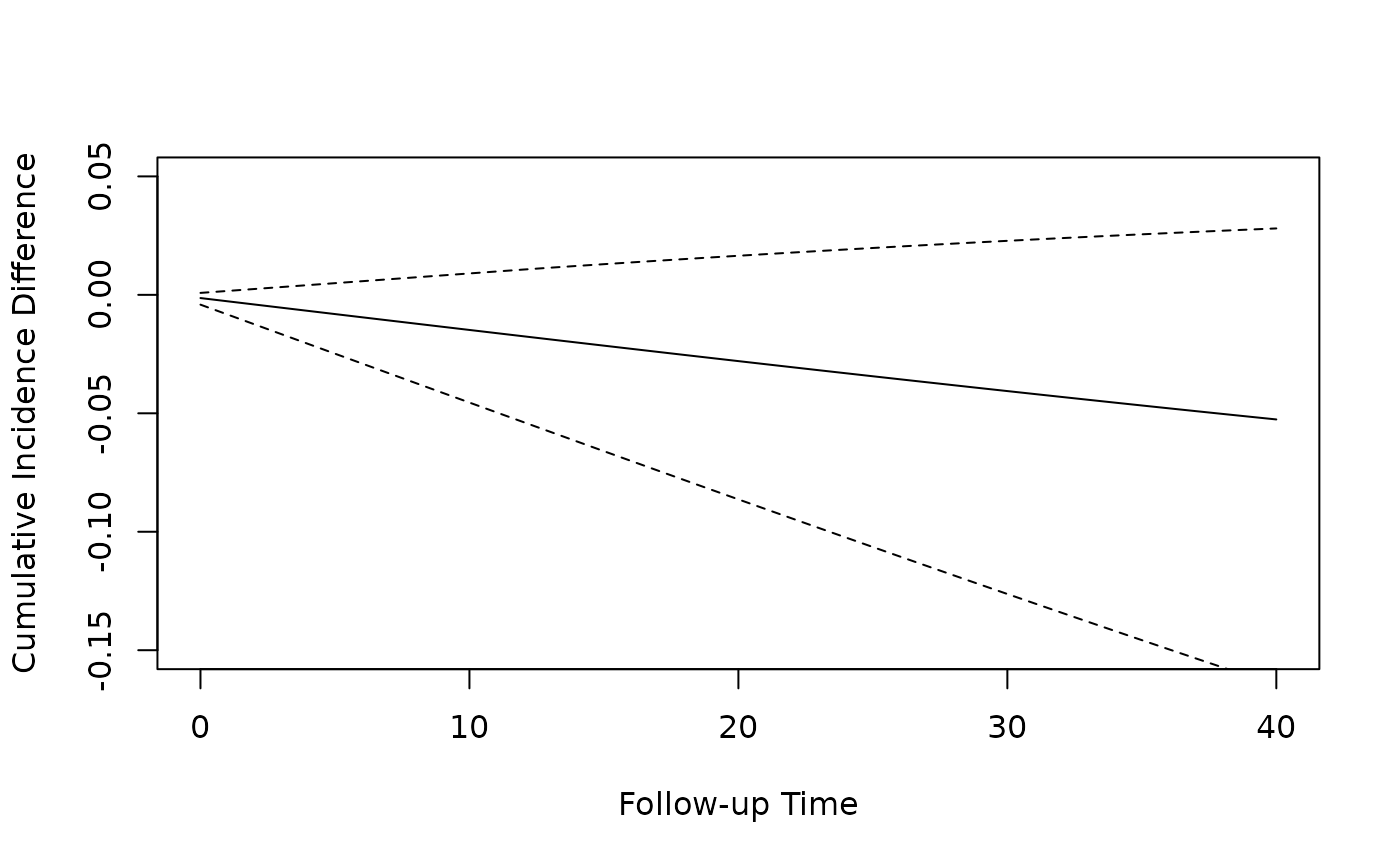
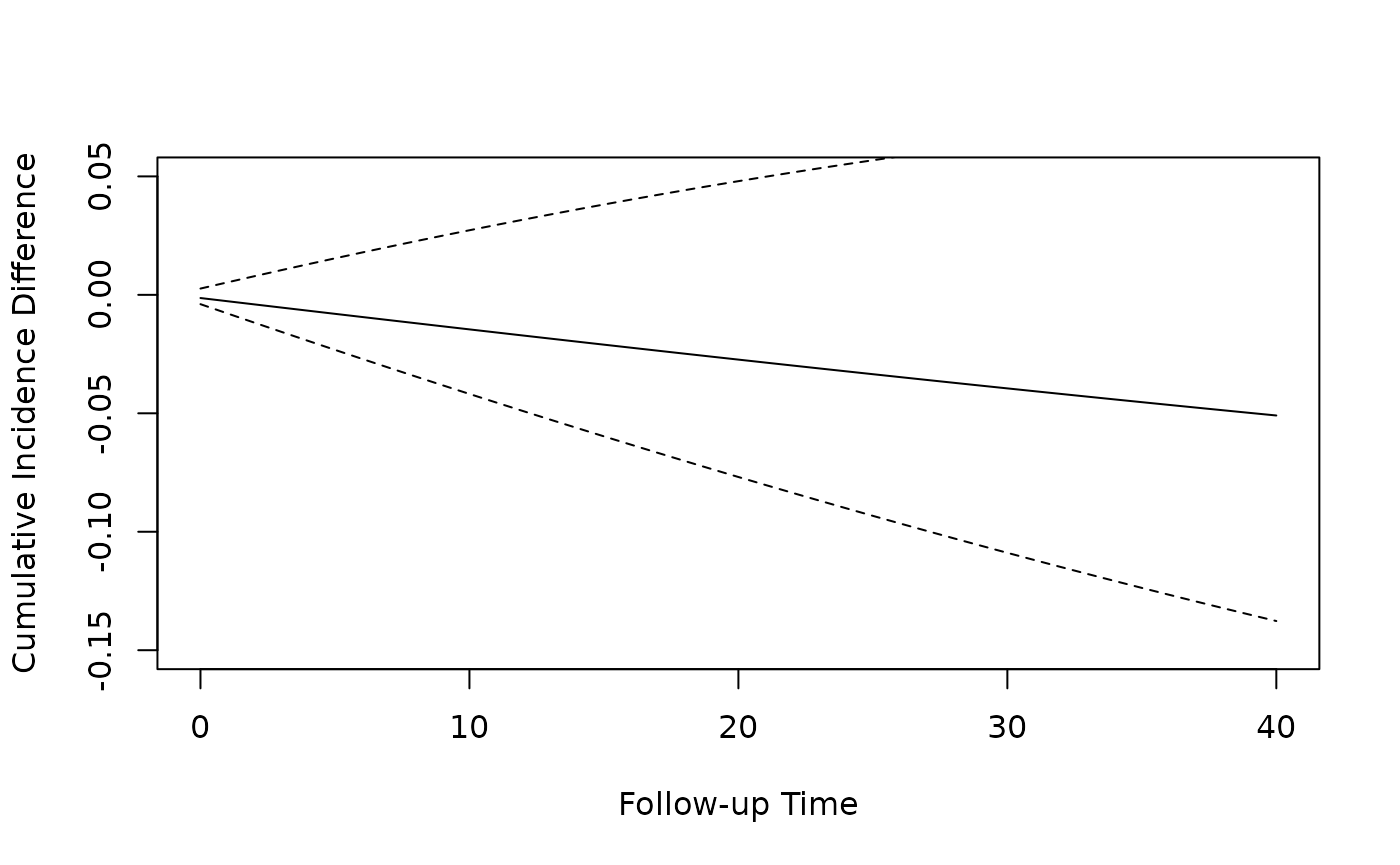
Deploying to gh-pages from @ Causal-LDA/TrialEmulation@38c63deaa6f6d2ba563328634d0d27fa89c20e72 🚀

diff --git a/articles/Getting-Started.html b/articles/Getting-Started.html
@@ -162,11 +162,11 @@ analysis:</p>
 <span><span class="op">)</span></span>
 <span><span class="co">#&gt; Starting data manipulation</span></span>
 <span><span class="co">#&gt; Finished data manipulation</span></span>
-<span><span class="co">#&gt; Processing time of data manipulation: 0.7 s</span></span>
+<span><span class="co">#&gt; Processing time of data manipulation: 1.0 s</span></span>
 <span><span class="co">#&gt; ------------------------------------------------------------</span></span>
 <span><span class="co">#&gt; Starting data extension</span></span>
 <span><span class="co">#&gt; Finish data extension</span></span>
-<span><span class="co">#&gt; Processing time of data extension: 4.7 s</span></span>
+<span><span class="co">#&gt; Processing time of data extension: 5.8 s</span></span>
 <span><span class="co">#&gt; ------------------------------------------------------------</span></span>
 <span><span class="co">#&gt; Summary of extended data:</span></span>
 <span><span class="co">#&gt; Number of observations: 1939053</span></span>
@@ -404,13 +404,13 @@ data.</p>
 <span><span class="co">#&gt; Expanded Trial Emulation data</span></span>
 <span><span class="co">#&gt; </span></span>
 <span><span class="co">#&gt; Expanded data saved in 396 csv files:</span></span>
-<span><span class="co">#&gt;   1:   /tmp/RtmpuuJrXG/trial_emu/trial_1.csv</span></span>
-<span><span class="co">#&gt;   2:   /tmp/RtmpuuJrXG/trial_emu/trial_2.csv</span></span>
-<span><span class="co">#&gt;   3:   /tmp/RtmpuuJrXG/trial_emu/trial_3.csv</span></span>
+<span><span class="co">#&gt;   1:   /tmp/RtmpAdKMDX/trial_emu/trial_1.csv</span></span>
+<span><span class="co">#&gt;   2:   /tmp/RtmpAdKMDX/trial_emu/trial_2.csv</span></span>
+<span><span class="co">#&gt;   3:   /tmp/RtmpAdKMDX/trial_emu/trial_3.csv</span></span>
 <span><span class="co">#&gt;  ---                                        </span></span>
-<span><span class="co">#&gt; 394: /tmp/RtmpuuJrXG/trial_emu/trial_394.csv</span></span>
-<span><span class="co">#&gt; 395: /tmp/RtmpuuJrXG/trial_emu/trial_395.csv</span></span>
-<span><span class="co">#&gt; 396: /tmp/RtmpuuJrXG/trial_emu/trial_396.csv</span></span>
+<span><span class="co">#&gt; 394: /tmp/RtmpAdKMDX/trial_emu/trial_394.csv</span></span>
+<span><span class="co">#&gt; 395: /tmp/RtmpAdKMDX/trial_emu/trial_395.csv</span></span>
+<span><span class="co">#&gt; 396: /tmp/RtmpAdKMDX/trial_emu/trial_396.csv</span></span>
 <span><span class="co">#&gt; </span></span>
 <span><span class="co">#&gt; </span></span>
 <span><span class="co">#&gt; Number of observations in expanded data: 963883 </span></span>
@@ -470,7 +470,7 @@ individually</p>
 <span><span class="co">#&gt;  null.deviance df.null logLik  AIC  BIC deviance df.residual  nobs</span></span>
 <span><span class="co">#&gt;           4330   21263  -2165 4335 4359     4329       21261 21264</span></span>
 <span><span class="co">#&gt; </span></span>
-<span><span class="co">#&gt; Object saved at "/tmp/RtmpuuJrXG/trial_emu/weight_model_switch_n0.rds"</span></span></code></pre></div>
+<span><span class="co">#&gt; Object saved at "/tmp/RtmpAdKMDX/trial_emu/weight_model_switch_n0.rds"</span></span></code></pre></div>
 <p>If <code>save_weight_models = TRUE,</code> the full model objects are
 saved in <code>working_dir</code>, so you can inspect the data used in
 those models and further investigate how well those models fit.</p>
@@ -507,12 +507,12 @@ those models and further investigate how well those models fit.</p>
 <p>We also see the expanded trial files:</p>
 <div class="sourceCode" id="cb12"><pre class="downlit sourceCode r">
 <code class="sourceCode R"><span><span class="fu"><a href="https://rdrr.io/r/utils/head.html" class="external-link">head</a></span><span class="op">(</span><span class="va">prep_data</span><span class="op">$</span><span class="va">data</span><span class="op">)</span></span>
-<span><span class="co">#&gt; [1] "/tmp/RtmpuuJrXG/trial_emu/trial_1.csv"</span></span>
-<span><span class="co">#&gt; [2] "/tmp/RtmpuuJrXG/trial_emu/trial_2.csv"</span></span>
-<span><span class="co">#&gt; [3] "/tmp/RtmpuuJrXG/trial_emu/trial_3.csv"</span></span>
-<span><span class="co">#&gt; [4] "/tmp/RtmpuuJrXG/trial_emu/trial_4.csv"</span></span>
-<span><span class="co">#&gt; [5] "/tmp/RtmpuuJrXG/trial_emu/trial_5.csv"</span></span>
-<span><span class="co">#&gt; [6] "/tmp/RtmpuuJrXG/trial_emu/trial_6.csv"</span></span></code></pre></div>
+<span><span class="co">#&gt; [1] "/tmp/RtmpAdKMDX/trial_emu/trial_1.csv"</span></span>
+<span><span class="co">#&gt; [2] "/tmp/RtmpAdKMDX/trial_emu/trial_2.csv"</span></span>
+<span><span class="co">#&gt; [3] "/tmp/RtmpAdKMDX/trial_emu/trial_3.csv"</span></span>
+<span><span class="co">#&gt; [4] "/tmp/RtmpAdKMDX/trial_emu/trial_4.csv"</span></span>
+<span><span class="co">#&gt; [5] "/tmp/RtmpAdKMDX/trial_emu/trial_5.csv"</span></span>
+<span><span class="co">#&gt; [6] "/tmp/RtmpAdKMDX/trial_emu/trial_6.csv"</span></span></code></pre></div>
 <p>Each of these csv files contains the data for the trial starting at
 period <code>_i</code>. To create a manageable dataset for the final
 analysis we can sample from these trials.</p>
@@ -521,18 +521,18 @@ time in each trial. All observations with events are included.</p>
 <div class="sourceCode" id="cb13"><pre class="downlit sourceCode r">
 <code class="sourceCode R"><span><span class="va">sampled_data</span> <span class="op">&lt;-</span> <span class="fu"><a href="../reference/case_control_sampling_trials.html">case_control_sampling_trials</a></span><span class="op">(</span><span class="va">prep_data</span>, p_control <span class="op">=</span> <span class="fl">0.1</span><span class="op">)</span></span>
 <span><span class="fu"><a href="https://rdrr.io/r/utils/str.html" class="external-link">str</a></span><span class="op">(</span><span class="va">sampled_data</span><span class="op">)</span></span>
-<span><span class="co">#&gt; Classes 'data.table' and 'data.frame':   100214 obs. of  13 variables:</span></span>
-<span><span class="co">#&gt;  $ id                : int  165 176 165 176 423 476 176 54 358 31 ...</span></span>
+<span><span class="co">#&gt; Classes 'data.table' and 'data.frame':   99903 obs. of  13 variables:</span></span>
+<span><span class="co">#&gt;  $ id                : int  476 176 358 423 358 31 165 475 165 484 ...</span></span>
 <span><span class="co">#&gt;  $ trial_period      : int  1 1 1 1 1 1 1 1 1 1 ...</span></span>
-<span><span class="co">#&gt;  $ followup_time     : int  0 1 2 3 3 4 4 5 7 9 ...</span></span>
+<span><span class="co">#&gt;  $ followup_time     : int  0 0 0 3 4 6 7 7 9 10 ...</span></span>
 <span><span class="co">#&gt;  $ outcome           : num  0 0 0 0 0 0 0 0 0 0 ...</span></span>
-<span><span class="co">#&gt;  $ weight            : num  1 1 0.999 0.999 0.999 ...</span></span>
+<span><span class="co">#&gt;  $ weight            : num  1 1 1 0.999 0.998 ...</span></span>
 <span><span class="co">#&gt;  $ treatment         : int  0 0 0 0 0 0 0 0 0 0 ...</span></span>
 <span><span class="co">#&gt;  $ catvarA           : Factor w/ 5 levels "0","1","2","3",..: 5 5 5 5 5 5 5 5 5 5 ...</span></span>
 <span><span class="co">#&gt;  $ catvarB           : Factor w/ 5 levels "0","1","2","3",..: 5 5 5 5 5 5 5 5 5 5 ...</span></span>
 <span><span class="co">#&gt;  $ nvarA             : int  0 0 0 0 0 0 0 0 0 0 ...</span></span>
-<span><span class="co">#&gt;  $ nvarB             : int  0 0 0 0 0 0 0 0 0 0 ...</span></span>
-<span><span class="co">#&gt;  $ nvarC             : int  70 45 70 45 56 49 45 49 47 40 ...</span></span>
+<span><span class="co">#&gt;  $ nvarB             : int  0 0 0 0 0 0 0 0 0 1 ...</span></span>
+<span><span class="co">#&gt;  $ nvarC             : int  49 45 47 56 47 40 70 69 70 55 ...</span></span>
 <span><span class="co">#&gt;  $ assigned_treatment: int  0 0 0 0 0 0 0 0 0 0 ...</span></span>
 <span><span class="co">#&gt;  $ sample_weight     : num  10 10 10 10 10 10 10 10 10 10 ...</span></span>
 <span><span class="co">#&gt;  - attr(*, ".internal.selfref")=&lt;externalptr&gt;</span></span></code></pre></div>
@@ -572,54 +572,54 @@ estimates.</p>
 <span><span class="co">#&gt; </span></span>
 <span><span class="co">#&gt; Coefficients:</span></span>
 <span><span class="co">#&gt;                     Estimate Std. Error z value Pr(&gt;|z|)    </span></span>
-<span><span class="co">#&gt; (Intercept)        -2.45e+00   2.26e-01  -10.86  &lt; 2e-16 ***</span></span>
-<span><span class="co">#&gt; assigned_treatment -4.20e-01   5.37e-02   -7.83  5.0e-15 ***</span></span>
-<span><span class="co">#&gt; trial_period       -2.12e-03   8.48e-04   -2.50   0.0123 *  </span></span>
-<span><span class="co">#&gt; I(trial_period^2)   1.08e-05   1.91e-06    5.64  1.7e-08 ***</span></span>
-<span><span class="co">#&gt; followup_time       7.03e-03   1.24e-03    5.67  1.5e-08 ***</span></span>
-<span><span class="co">#&gt; I(followup_time^2) -5.01e-05   9.35e-06   -5.35  8.7e-08 ***</span></span>
-<span><span class="co">#&gt; catvarA1            3.22e-01   4.05e-02    7.96  1.7e-15 ***</span></span>
-<span><span class="co">#&gt; catvarA2            4.59e-01   5.38e-02    8.54  &lt; 2e-16 ***</span></span>
-<span><span class="co">#&gt; catvarA3           -1.03e+01   5.58e+01   -0.18   0.8539    </span></span>
-<span><span class="co">#&gt; catvarA7            3.39e-01   6.40e-02    5.30  1.2e-07 ***</span></span>
-<span><span class="co">#&gt; catvarB1           -3.92e-01   1.85e-01   -2.12   0.0338 *  </span></span>
-<span><span class="co">#&gt; catvarB2           -1.52e-01   1.88e-01   -0.81   0.4197    </span></span>
-<span><span class="co">#&gt; catvarB3           -2.40e+00   3.66e-01   -6.56  5.4e-11 ***</span></span>
-<span><span class="co">#&gt; catvarB7           -8.64e-01   1.88e-01   -4.61  4.1e-06 ***</span></span>
-<span><span class="co">#&gt; nvarA              -2.47e-02   8.78e-03   -2.81   0.0049 ** </span></span>
-<span><span class="co">#&gt; nvarB               3.21e-03   3.87e-04    8.28  &lt; 2e-16 ***</span></span>
-<span><span class="co">#&gt; nvarC              -5.03e-02   1.23e-03  -40.88  &lt; 2e-16 ***</span></span>
+<span><span class="co">#&gt; (Intercept)        -2.32e+00   2.26e-01  -10.25  &lt; 2e-16 ***</span></span>
+<span><span class="co">#&gt; assigned_treatment -4.07e-01   5.36e-02   -7.60  3.0e-14 ***</span></span>
+<span><span class="co">#&gt; trial_period       -2.04e-03   8.47e-04   -2.41   0.0160 *  </span></span>
+<span><span class="co">#&gt; I(trial_period^2)   1.05e-05   1.91e-06    5.49  4.1e-08 ***</span></span>
+<span><span class="co">#&gt; followup_time       5.40e-03   1.19e-03    4.55  5.3e-06 ***</span></span>
+<span><span class="co">#&gt; I(followup_time^2) -3.44e-05   8.63e-06   -3.98  6.9e-05 ***</span></span>
+<span><span class="co">#&gt; catvarA1            3.48e-01   4.03e-02    8.64  &lt; 2e-16 ***</span></span>
+<span><span class="co">#&gt; catvarA2            4.37e-01   5.37e-02    8.15  3.8e-16 ***</span></span>
+<span><span class="co">#&gt; catvarA3           -1.02e+01   5.39e+01   -0.19   0.8495    </span></span>
+<span><span class="co">#&gt; catvarA7            3.28e-01   6.42e-02    5.11  3.3e-07 ***</span></span>
+<span><span class="co">#&gt; catvarB1           -4.88e-01   1.85e-01   -2.63   0.0084 ** </span></span>
+<span><span class="co">#&gt; catvarB2           -2.44e-01   1.89e-01   -1.29   0.1959    </span></span>
+<span><span class="co">#&gt; catvarB3           -2.48e+00   3.66e-01   -6.78  1.2e-11 ***</span></span>
+<span><span class="co">#&gt; catvarB7           -9.59e-01   1.88e-01   -5.11  3.2e-07 ***</span></span>
+<span><span class="co">#&gt; nvarA              -2.37e-02   8.68e-03   -2.73   0.0064 ** </span></span>
+<span><span class="co">#&gt; nvarB               3.07e-03   3.83e-04    7.99  1.3e-15 ***</span></span>
+<span><span class="co">#&gt; nvarC              -5.05e-02   1.23e-03  -41.20  &lt; 2e-16 ***</span></span>
 <span><span class="co">#&gt; ---</span></span>
 <span><span class="co">#&gt; Signif. codes:  0 '***' 0.001 '**' 0.01 '*' 0.05 '.' 0.1 ' ' 1</span></span>
 <span><span class="co">#&gt; </span></span>
 <span><span class="co">#&gt; (Dispersion parameter for binomial family taken to be 1)</span></span>
 <span><span class="co">#&gt; </span></span>
-<span><span class="co">#&gt;     Null deviance: 53123  on 100213  degrees of freedom</span></span>
-<span><span class="co">#&gt; Residual deviance: 50604  on 100197  degrees of freedom</span></span>
-<span><span class="co">#&gt; AIC: 50571</span></span>
+<span><span class="co">#&gt;     Null deviance: 53302  on 99902  degrees of freedom</span></span>
+<span><span class="co">#&gt; Residual deviance: 50793  on 99886  degrees of freedom</span></span>
+<span><span class="co">#&gt; AIC: 50737</span></span>
 <span><span class="co">#&gt; </span></span>
 <span><span class="co">#&gt; Number of Fisher Scoring iterations: 13</span></span>
 <span><span class="co">#&gt; ------------------------------------------------------------</span></span>
 <span><span class="co">#&gt; Calculating robust variance</span></span>
 <span><span class="co">#&gt; Summary with robust standard error:</span></span>
 <span><span class="co">#&gt;                 names  estimate robust_se      2.5%     97.5%       z  p_value</span></span>
-<span><span class="co">#&gt; 1         (Intercept) -2.45e+00  1.03e+00 -4.47e+00 -4.39e-01  -2.388 1.70e-02</span></span>
-<span><span class="co">#&gt; 2  assigned_treatment -4.20e-01  4.17e-01 -1.24e+00  3.97e-01  -1.008 3.14e-01</span></span>
-<span><span class="co">#&gt; 3        trial_period -2.12e-03  4.99e-03 -1.19e-02  7.66e-03  -0.425 6.71e-01</span></span>
-<span><span class="co">#&gt; 4   I(trial_period^2)  1.08e-05  1.10e-05 -1.08e-05  3.24e-05   0.977 3.28e-01</span></span>
-<span><span class="co">#&gt; 5       followup_time  7.03e-03  5.70e-03 -4.15e-03  1.82e-02   1.232 2.18e-01</span></span>
-<span><span class="co">#&gt; 6  I(followup_time^2) -5.01e-05  5.03e-05 -1.49e-04  4.86e-05  -0.995 3.20e-01</span></span>
-<span><span class="co">#&gt; 7            catvarA1  3.22e-01  2.61e-01 -1.90e-01  8.34e-01   1.234 2.17e-01</span></span>
-<span><span class="co">#&gt; 8            catvarA2  4.59e-01  3.64e-01 -2.55e-01  1.17e+00   1.261 2.07e-01</span></span>
-<span><span class="co">#&gt; 9            catvarA3 -1.03e+01  8.53e-01 -1.20e+01 -8.61e+00 -12.059 0.00e+00</span></span>
-<span><span class="co">#&gt; 10           catvarA7  3.39e-01  3.49e-01 -3.45e-01  1.02e+00   0.972 3.31e-01</span></span>
-<span><span class="co">#&gt; 11           catvarB1 -3.92e-01  6.22e-01 -1.61e+00  8.27e-01  -0.631 5.28e-01</span></span>
-<span><span class="co">#&gt; 12           catvarB2 -1.52e-01  6.60e-01 -1.45e+00  1.14e+00  -0.230 8.18e-01</span></span>
-<span><span class="co">#&gt; 13           catvarB3 -2.40e+00  1.10e+00 -4.55e+00 -2.49e-01  -2.187 2.87e-02</span></span>
-<span><span class="co">#&gt; 14           catvarB7 -8.64e-01  6.37e-01 -2.11e+00  3.85e-01  -1.356 1.75e-01</span></span>
-<span><span class="co">#&gt; 15              nvarA -2.47e-02  5.45e-02 -1.32e-01  8.21e-02  -0.454 6.50e-01</span></span>
-<span><span class="co">#&gt; 16              nvarB  3.21e-03  2.46e-03 -1.62e-03  8.03e-03   1.303 1.92e-01</span></span>
-<span><span class="co">#&gt; 17              nvarC -5.03e-02  9.14e-03 -6.82e-02 -3.24e-02  -5.505 3.70e-08</span></span>
+<span><span class="co">#&gt; 1         (Intercept) -2.32e+00  1.05e+00 -4.38e+00 -2.59e-01  -2.206 2.74e-02</span></span>
+<span><span class="co">#&gt; 2  assigned_treatment -4.07e-01  4.24e-01 -1.24e+00  4.25e-01  -0.959 3.37e-01</span></span>
+<span><span class="co">#&gt; 3        trial_period -2.04e-03  5.03e-03 -1.19e-02  7.81e-03  -0.406 6.85e-01</span></span>
+<span><span class="co">#&gt; 4   I(trial_period^2)  1.05e-05  1.11e-05 -1.13e-05  3.23e-05   0.943 3.46e-01</span></span>
+<span><span class="co">#&gt; 5       followup_time  5.40e-03  5.87e-03 -6.10e-03  1.69e-02   0.921 3.57e-01</span></span>
+<span><span class="co">#&gt; 6  I(followup_time^2) -3.44e-05  5.30e-05 -1.38e-04  6.95e-05  -0.648 5.17e-01</span></span>
+<span><span class="co">#&gt; 7            catvarA1  3.48e-01  2.66e-01 -1.74e-01  8.70e-01   1.307 1.91e-01</span></span>
+<span><span class="co">#&gt; 8            catvarA2  4.37e-01  3.61e-01 -2.70e-01  1.15e+00   1.212 2.26e-01</span></span>
+<span><span class="co">#&gt; 9            catvarA3 -1.02e+01  7.91e-01 -1.18e+01 -8.68e+00 -12.935 0.00e+00</span></span>
+<span><span class="co">#&gt; 10           catvarA7  3.28e-01  3.51e-01 -3.60e-01  1.02e+00   0.934 3.50e-01</span></span>
+<span><span class="co">#&gt; 11           catvarB1 -4.88e-01  6.58e-01 -1.78e+00  8.02e-01  -0.741 4.58e-01</span></span>
+<span><span class="co">#&gt; 12           catvarB2 -2.44e-01  6.92e-01 -1.60e+00  1.11e+00  -0.352 7.25e-01</span></span>
+<span><span class="co">#&gt; 13           catvarB3 -2.48e+00  1.11e+00 -4.66e+00 -3.09e-01  -2.239 2.52e-02</span></span>
+<span><span class="co">#&gt; 14           catvarB7 -9.59e-01  6.72e-01 -2.28e+00  3.57e-01  -1.429 1.53e-01</span></span>
+<span><span class="co">#&gt; 15              nvarA -2.37e-02  5.45e-02 -1.30e-01  8.31e-02  -0.434 6.64e-01</span></span>
+<span><span class="co">#&gt; 16              nvarB  3.07e-03  2.43e-03 -1.70e-03  7.83e-03   1.261 2.07e-01</span></span>
+<span><span class="co">#&gt; 17              nvarC -5.05e-02  9.25e-03 -6.87e-02 -3.24e-02  -5.465 4.64e-08</span></span>
 <span><span class="co">#&gt; ------------------------------------------------------------</span></span></code></pre></div>
 <p>The result is the same type as the previous result from the simple
 <code>initiators</code> function, containing the <code>glm</code> object
@@ -635,23 +635,23 @@ and the sandwich results.</p>
 <span><span class="co">#&gt; </span></span>
 <span><span class="co">#&gt; Coefficent summary (robust):</span></span>
 <span><span class="co">#&gt;               names  estimate robust_se      2.5%     97.5%       z p_value</span></span>
-<span><span class="co">#&gt;         (Intercept) -2.45e+00  1.03e+00 -4.47e+00 -4.39e-01  -2.388    0.02</span></span>
-<span><span class="co">#&gt;  assigned_treatment -4.20e-01  4.17e-01 -1.24e+00  3.97e-01  -1.008    0.31</span></span>
-<span><span class="co">#&gt;        trial_period -2.12e-03  4.99e-03 -1.19e-02  7.66e-03  -0.425    0.67</span></span>
-<span><span class="co">#&gt;   I(trial_period^2)  1.08e-05  1.10e-05 -1.08e-05  3.24e-05   0.977    0.33</span></span>
-<span><span class="co">#&gt;       followup_time  7.03e-03  5.70e-03 -4.15e-03  1.82e-02   1.232    0.22</span></span>
-<span><span class="co">#&gt;  I(followup_time^2) -5.01e-05  5.03e-05 -1.49e-04  4.86e-05  -0.995    0.32</span></span>
-<span><span class="co">#&gt;            catvarA1  3.22e-01  2.61e-01 -1.90e-01  8.34e-01   1.234    0.22</span></span>
-<span><span class="co">#&gt;            catvarA2  4.59e-01  3.64e-01 -2.55e-01  1.17e+00   1.261    0.21</span></span>
-<span><span class="co">#&gt;            catvarA3 -1.03e+01  8.53e-01 -1.20e+01 -8.61e+00 -12.059  &lt;2e-16</span></span>
-<span><span class="co">#&gt;            catvarA7  3.39e-01  3.49e-01 -3.45e-01  1.02e+00   0.972    0.33</span></span>
-<span><span class="co">#&gt;            catvarB1 -3.92e-01  6.22e-01 -1.61e+00  8.27e-01  -0.631    0.53</span></span>
-<span><span class="co">#&gt;            catvarB2 -1.52e-01  6.60e-01 -1.45e+00  1.14e+00  -0.230    0.82</span></span>
-<span><span class="co">#&gt;            catvarB3 -2.40e+00  1.10e+00 -4.55e+00 -2.49e-01  -2.187    0.03</span></span>
-<span><span class="co">#&gt;            catvarB7 -8.64e-01  6.37e-01 -2.11e+00  3.85e-01  -1.356    0.18</span></span>
-<span><span class="co">#&gt;               nvarA -2.47e-02  5.45e-02 -1.32e-01  8.21e-02  -0.454    0.65</span></span>
-<span><span class="co">#&gt;               nvarB  3.21e-03  2.46e-03 -1.62e-03  8.03e-03   1.303    0.19</span></span>
-<span><span class="co">#&gt;               nvarC -5.03e-02  9.14e-03 -6.82e-02 -3.24e-02  -5.505   4e-08</span></span>
+<span><span class="co">#&gt;         (Intercept) -2.32e+00  1.05e+00 -4.38e+00 -2.59e-01  -2.206    0.03</span></span>
+<span><span class="co">#&gt;  assigned_treatment -4.07e-01  4.24e-01 -1.24e+00  4.25e-01  -0.959    0.34</span></span>
+<span><span class="co">#&gt;        trial_period -2.04e-03  5.03e-03 -1.19e-02  7.81e-03  -0.406    0.68</span></span>
+<span><span class="co">#&gt;   I(trial_period^2)  1.05e-05  1.11e-05 -1.13e-05  3.23e-05   0.943    0.35</span></span>
+<span><span class="co">#&gt;       followup_time  5.40e-03  5.87e-03 -6.10e-03  1.69e-02   0.921    0.36</span></span>
+<span><span class="co">#&gt;  I(followup_time^2) -3.44e-05  5.30e-05 -1.38e-04  6.95e-05  -0.648    0.52</span></span>
+<span><span class="co">#&gt;            catvarA1  3.48e-01  2.66e-01 -1.74e-01  8.70e-01   1.307    0.19</span></span>
+<span><span class="co">#&gt;            catvarA2  4.37e-01  3.61e-01 -2.70e-01  1.15e+00   1.212    0.23</span></span>
+<span><span class="co">#&gt;            catvarA3 -1.02e+01  7.91e-01 -1.18e+01 -8.68e+00 -12.935  &lt;2e-16</span></span>
+<span><span class="co">#&gt;            catvarA7  3.28e-01  3.51e-01 -3.60e-01  1.02e+00   0.934    0.35</span></span>
+<span><span class="co">#&gt;            catvarB1 -4.88e-01  6.58e-01 -1.78e+00  8.02e-01  -0.741    0.46</span></span>
+<span><span class="co">#&gt;            catvarB2 -2.44e-01  6.92e-01 -1.60e+00  1.11e+00  -0.352    0.72</span></span>
+<span><span class="co">#&gt;            catvarB3 -2.48e+00  1.11e+00 -4.66e+00 -3.09e-01  -2.239    0.03</span></span>
+<span><span class="co">#&gt;            catvarB7 -9.59e-01  6.72e-01 -2.28e+00  3.57e-01  -1.429    0.15</span></span>
+<span><span class="co">#&gt;               nvarA -2.37e-02  5.45e-02 -1.30e-01  8.31e-02  -0.434    0.66</span></span>
+<span><span class="co">#&gt;               nvarB  3.07e-03  2.43e-03 -1.70e-03  7.83e-03   1.261    0.21</span></span>
+<span><span class="co">#&gt;               nvarC -5.05e-02  9.25e-03 -6.87e-02 -3.24e-02  -5.465   5e-08</span></span>
 <span><span class="co">#&gt; </span></span>
 <span><span class="co">#&gt; model_result$model contains the fitted glm model object.</span></span>
 <span><span class="co">#&gt; model_result$robust$matrix contains the full robust covariance matrix.</span></span></code></pre></div>
@@ -666,31 +666,31 @@ and the sandwich results.</p>
 <span><span class="co">#&gt; </span></span>
 <span><span class="co">#&gt; Coefficients:</span></span>
 <span><span class="co">#&gt;                     Estimate Std. Error z value Pr(&gt;|z|)    </span></span>
-<span><span class="co">#&gt; (Intercept)        -2.45e+00   2.26e-01  -10.86  &lt; 2e-16 ***</span></span>
-<span><span class="co">#&gt; assigned_treatment -4.20e-01   5.37e-02   -7.83  5.0e-15 ***</span></span>
-<span><span class="co">#&gt; trial_period       -2.12e-03   8.48e-04   -2.50   0.0123 *  </span></span>
-<span><span class="co">#&gt; I(trial_period^2)   1.08e-05   1.91e-06    5.64  1.7e-08 ***</span></span>
-<span><span class="co">#&gt; followup_time       7.03e-03   1.24e-03    5.67  1.5e-08 ***</span></span>
-<span><span class="co">#&gt; I(followup_time^2) -5.01e-05   9.35e-06   -5.35  8.7e-08 ***</span></span>
-<span><span class="co">#&gt; catvarA1            3.22e-01   4.05e-02    7.96  1.7e-15 ***</span></span>
-<span><span class="co">#&gt; catvarA2            4.59e-01   5.38e-02    8.54  &lt; 2e-16 ***</span></span>
-<span><span class="co">#&gt; catvarA3           -1.03e+01   5.58e+01   -0.18   0.8539    </span></span>
-<span><span class="co">#&gt; catvarA7            3.39e-01   6.40e-02    5.30  1.2e-07 ***</span></span>
-<span><span class="co">#&gt; catvarB1           -3.92e-01   1.85e-01   -2.12   0.0338 *  </span></span>
-<span><span class="co">#&gt; catvarB2           -1.52e-01   1.88e-01   -0.81   0.4197    </span></span>
-<span><span class="co">#&gt; catvarB3           -2.40e+00   3.66e-01   -6.56  5.4e-11 ***</span></span>
-<span><span class="co">#&gt; catvarB7           -8.64e-01   1.88e-01   -4.61  4.1e-06 ***</span></span>
-<span><span class="co">#&gt; nvarA              -2.47e-02   8.78e-03   -2.81   0.0049 ** </span></span>
-<span><span class="co">#&gt; nvarB               3.21e-03   3.87e-04    8.28  &lt; 2e-16 ***</span></span>
-<span><span class="co">#&gt; nvarC              -5.03e-02   1.23e-03  -40.88  &lt; 2e-16 ***</span></span>
+<span><span class="co">#&gt; (Intercept)        -2.32e+00   2.26e-01  -10.25  &lt; 2e-16 ***</span></span>
+<span><span class="co">#&gt; assigned_treatment -4.07e-01   5.36e-02   -7.60  3.0e-14 ***</span></span>
+<span><span class="co">#&gt; trial_period       -2.04e-03   8.47e-04   -2.41   0.0160 *  </span></span>
+<span><span class="co">#&gt; I(trial_period^2)   1.05e-05   1.91e-06    5.49  4.1e-08 ***</span></span>
+<span><span class="co">#&gt; followup_time       5.40e-03   1.19e-03    4.55  5.3e-06 ***</span></span>
+<span><span class="co">#&gt; I(followup_time^2) -3.44e-05   8.63e-06   -3.98  6.9e-05 ***</span></span>
+<span><span class="co">#&gt; catvarA1            3.48e-01   4.03e-02    8.64  &lt; 2e-16 ***</span></span>
+<span><span class="co">#&gt; catvarA2            4.37e-01   5.37e-02    8.15  3.8e-16 ***</span></span>
+<span><span class="co">#&gt; catvarA3           -1.02e+01   5.39e+01   -0.19   0.8495    </span></span>
+<span><span class="co">#&gt; catvarA7            3.28e-01   6.42e-02    5.11  3.3e-07 ***</span></span>
+<span><span class="co">#&gt; catvarB1           -4.88e-01   1.85e-01   -2.63   0.0084 ** </span></span>
+<span><span class="co">#&gt; catvarB2           -2.44e-01   1.89e-01   -1.29   0.1959    </span></span>
+<span><span class="co">#&gt; catvarB3           -2.48e+00   3.66e-01   -6.78  1.2e-11 ***</span></span>
+<span><span class="co">#&gt; catvarB7           -9.59e-01   1.88e-01   -5.11  3.2e-07 ***</span></span>
+<span><span class="co">#&gt; nvarA              -2.37e-02   8.68e-03   -2.73   0.0064 ** </span></span>
+<span><span class="co">#&gt; nvarB               3.07e-03   3.83e-04    7.99  1.3e-15 ***</span></span>
+<span><span class="co">#&gt; nvarC              -5.05e-02   1.23e-03  -41.20  &lt; 2e-16 ***</span></span>
 <span><span class="co">#&gt; ---</span></span>
 <span><span class="co">#&gt; Signif. codes:  0 '***' 0.001 '**' 0.01 '*' 0.05 '.' 0.1 ' ' 1</span></span>
 <span><span class="co">#&gt; </span></span>
 <span><span class="co">#&gt; (Dispersion parameter for binomial family taken to be 1)</span></span>
 <span><span class="co">#&gt; </span></span>
-<span><span class="co">#&gt;     Null deviance: 53123  on 100213  degrees of freedom</span></span>
-<span><span class="co">#&gt; Residual deviance: 50604  on 100197  degrees of freedom</span></span>
-<span><span class="co">#&gt; AIC: 50571</span></span>
+<span><span class="co">#&gt;     Null deviance: 53302  on 99902  degrees of freedom</span></span>
+<span><span class="co">#&gt; Residual deviance: 50793  on 99886  degrees of freedom</span></span>
+<span><span class="co">#&gt; AIC: 50737</span></span>
 <span><span class="co">#&gt; </span></span>
 <span><span class="co">#&gt; Number of Fisher Scoring iterations: 13</span></span></code></pre></div>
 <p>We can also use this object to predict cumulative incidence curves

diff --git a/reference/case_control_sampling_trials.html b/reference/case_control_sampling_trials.html
@@ -112,11 +112,11 @@ containing sample weights will be added to the result. These can be included in 
 <span class="r-in"><span><span class="op">)</span></span></span>
 <span class="r-msg co"><span class="r-pr">#&gt;</span> Starting data manipulation</span>
 <span class="r-msg co"><span class="r-pr">#&gt;</span> Finished data manipulation</span>
-<span class="r-msg co"><span class="r-pr">#&gt;</span> Processing time of data manipulation: 0.3 s</span>
+<span class="r-msg co"><span class="r-pr">#&gt;</span> Processing time of data manipulation: 0.4 s</span>
 <span class="r-msg co"><span class="r-pr">#&gt;</span> ------------------------------------------------------------</span>
 <span class="r-msg co"><span class="r-pr">#&gt;</span> Starting data extension</span>
 <span class="r-msg co"><span class="r-pr">#&gt;</span> Finish data extension</span>
-<span class="r-msg co"><span class="r-pr">#&gt;</span> Processing time of data extension: 2.2 s</span>
+<span class="r-msg co"><span class="r-pr">#&gt;</span> Processing time of data extension: 2.8 s</span>
 <span class="r-msg co"><span class="r-pr">#&gt;</span> ------------------------------------------------------------</span>
 <span class="r-msg co"><span class="r-pr">#&gt;</span> Summary of extended data:</span>
 <span class="r-msg co"><span class="r-pr">#&gt;</span> Number of observations: 50139</span>

diff --git a/reference/add_rhs.html b/reference/add_rhs.html
@@ -89,7 +89,7 @@
     <h2>Examples</h2>
     <div class="sourceCode"><pre class="sourceCode r"><code><span class="r-in"><span><span class="fu">TrialEmulation</span><span class="fu">:::</span><span class="fu">add_rhs</span><span class="op">(</span><span class="op">~</span> <span class="va">a</span> <span class="op">+</span> <span class="va">b</span>, <span class="va">z</span> <span class="op">~</span> <span class="va">c</span> <span class="op">+</span> <span class="fu"><a href="https://rdrr.io/r/base/Log.html" class="external-link">log</a></span><span class="op">(</span><span class="va">d</span><span class="op">)</span><span class="op">)</span></span></span>
 <span class="r-out co"><span class="r-pr">#&gt;</span> ~a + b + c + log(d)</span>
-<span class="r-out co"><span class="r-pr">#&gt;</span> &lt;environment: 0x55899b2bc218&gt;</span>
+<span class="r-out co"><span class="r-pr">#&gt;</span> &lt;environment: 0x56491646d638&gt;</span>
 <span class="r-in"><span><span class="co"># ~ a + b + c + log(d)</span></span></span>
 </code></pre></div>
     </div>
